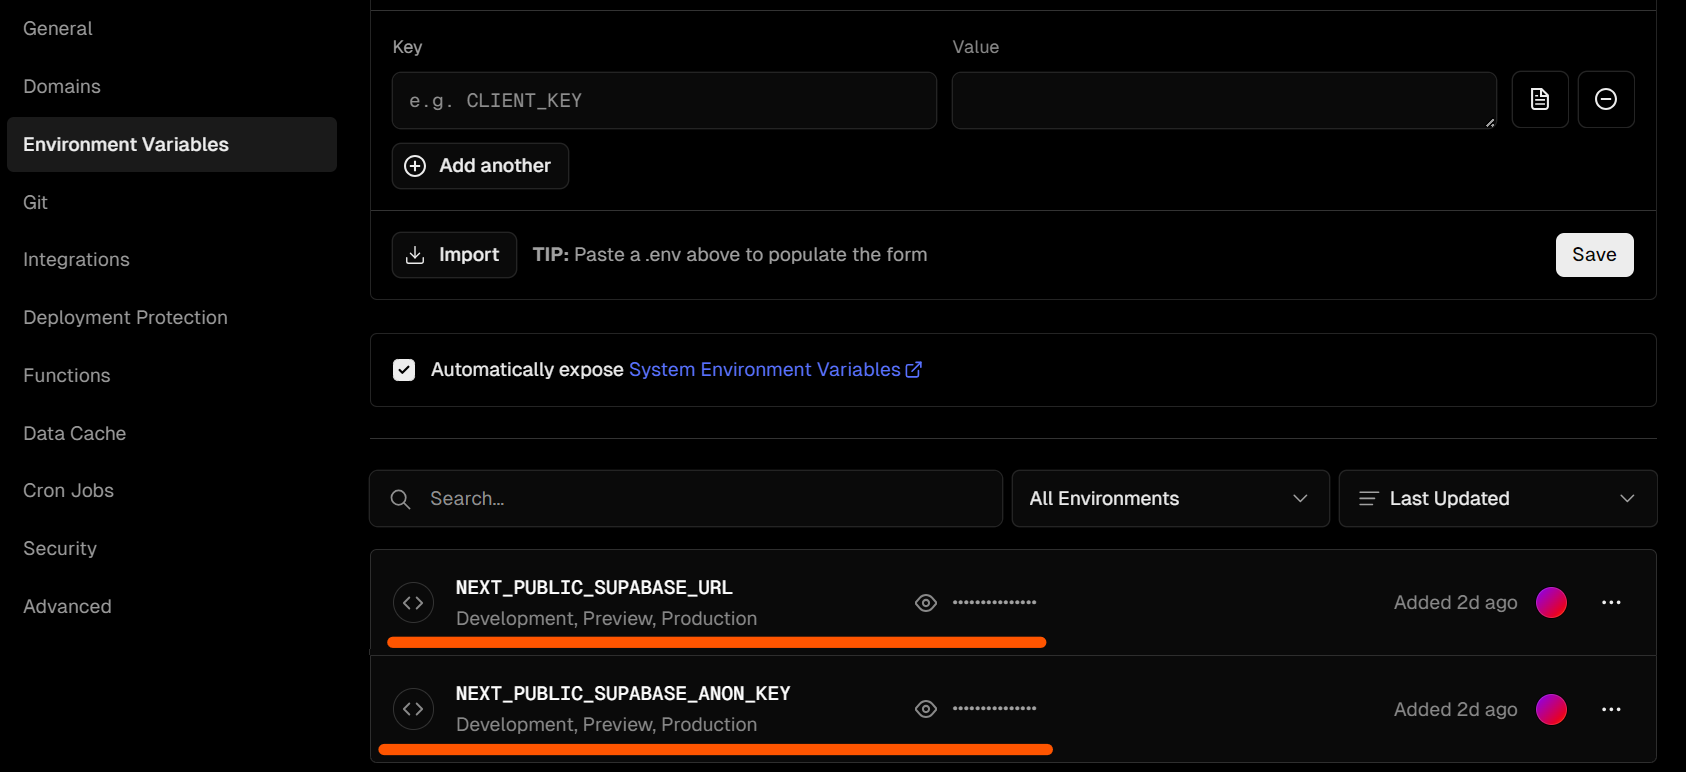
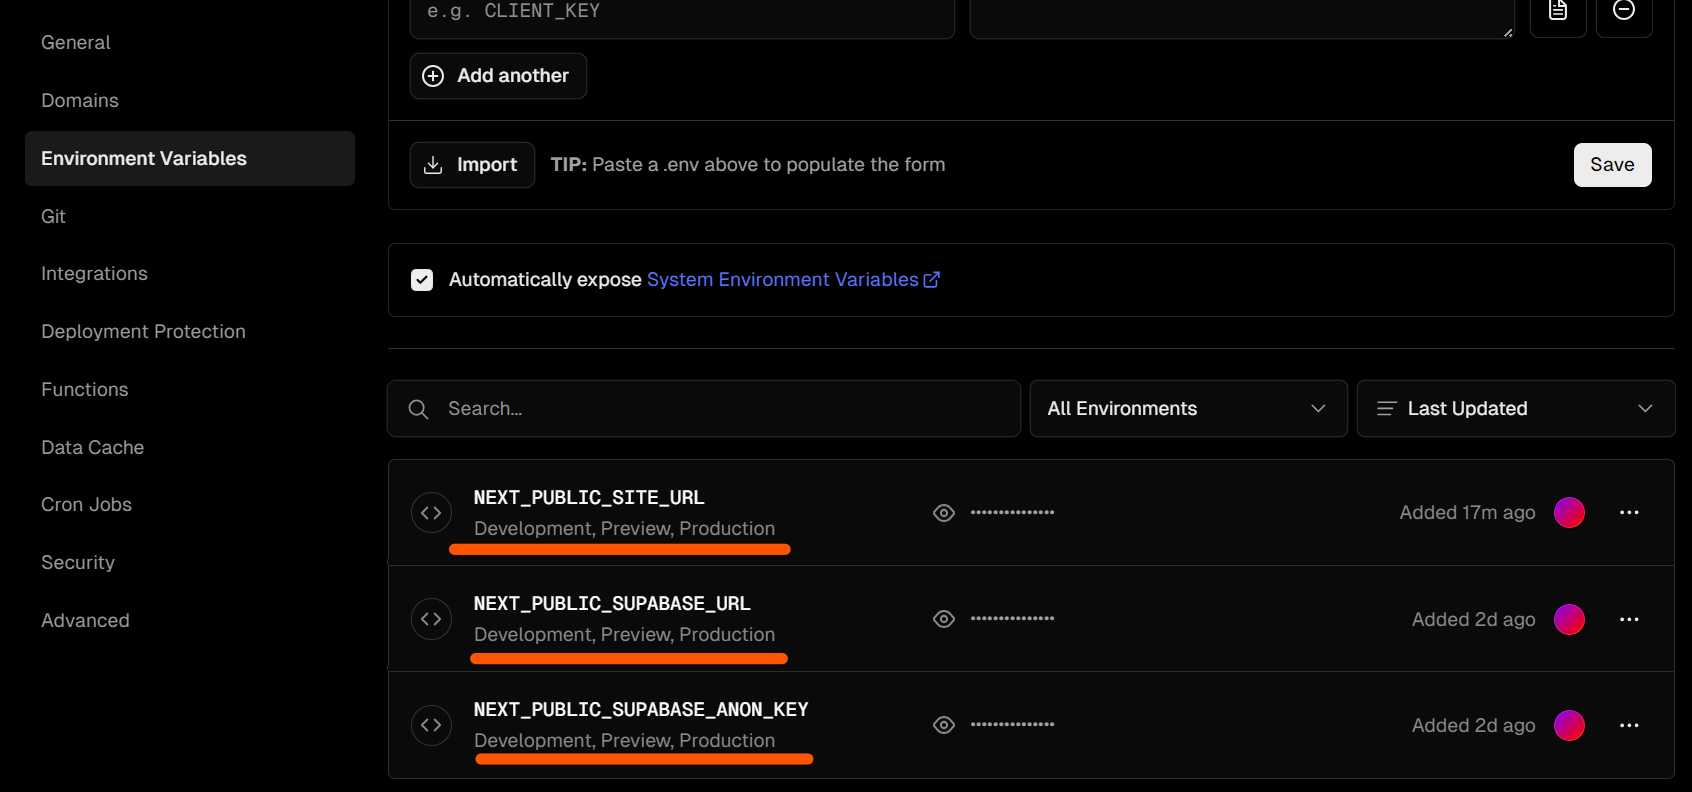
update readme

diff --git a/README.md b/README.md
@@ -1,9 +1,24 @@
+## About The Project
 <img src="public/page-home.png" alt="image" width="600"/>
 <img src="public/page-posts.jpg" alt="image" width="600"/>
 <img src="public/page-login.png" alt="image" width="300"/>
 
-[demo](https://create-post-by-next13-4-gmb9h7wxp-marcoliu1020.vercel.app/)
+</br>
+有註冊帳號才能發布文章的平台
 
+[demo](https://training-post.vercel.app/)
+
+## Built With
+1. [Next](https://nextjs.org/)
+   - 網站建立
+2. [Supabase](https://supabase.com/)
+   - 資料庫
+   - 身分驗證
+3. [Vercel](https://vercel.com/)
+   - 網站部署
+4. [shadcn/ui](https://ui.shadcn.com/)
+   - UI components
+5. Goolge OAuth
 
 ## How to start
 1. 創建 Supabase 帳號
@@ -25,22 +40,25 @@
      - Supabase Project URL
     </br>
     <img src="public/supabase-url-anon.png" alt="image" width="600"/>
-  2. `NEXT_PUBLIC_SUPABASE_ANON_KEY`=eyJh5cCIJ9.eyJpc3Mk2MH0.ldHnVnoFwV
+  1. `NEXT_PUBLIC_SUPABASE_ANON_KEY`=eyJh5cCIJ9.eyJpc3Mk2MH0.ldHnVnoFwV
      - Supabase Anon Key
-  3. `NEXT_PUBLIC_SITE_URL`=https://xxxxxxxxxxxxx.vercel.app
+  2. `NEXT_PUBLIC_SITE_URL`=https://xxxxxxxxxxxxx.vercel.app
      - 網路上的正式網址，如果沒有可以先不輸入
 
 ## Supabase redirect URL setting for Vercel
-- 將專案部署到 Vercel，並且有使用 Google 第三方帳號登入，就要設定轉址服務
-- 新增 `https://*-username.vercel.app/`，username 是 Vercel 的 username
+將專案部署到 Vercel，並且有使用 Google 第三方帳號登入，就要設定轉址服務
+- 新增 Vercel 測試網址 `https://*-username.vercel.app/`，username 是 Vercel 的 username
 <img src="public/supabase-redirect-url-setting.png" alt="image" width="600"/>
 
-
+- 如果有 production 網址，就可以新增
+</br>
+<img src="public/supabase-prod-url.png" alt="image" width="600"/>
 
 ## Vercel env setting
-需要額外手動加入 .env.local 的 2 個參數到 Vercel 的專案裡，不然 Vercel 編譯會失敗
+需要額外手動加入 .env.local 參數到 Vercel 的專案裡，不然 Vercel 編譯會失敗
 1. NEXT_PUBLIC_SUPABASE_URL
 2. NEXT_PUBLIC_SUPABASE_ANON_KEY
+3. NEXT_PUBLIC_SITE_URL
 </br>
 <img src="public/vercel-project-setting.png" alt="image" width="600"/>
 <img src="public/vercel-env-setting.png" alt="image" width="600"/>
